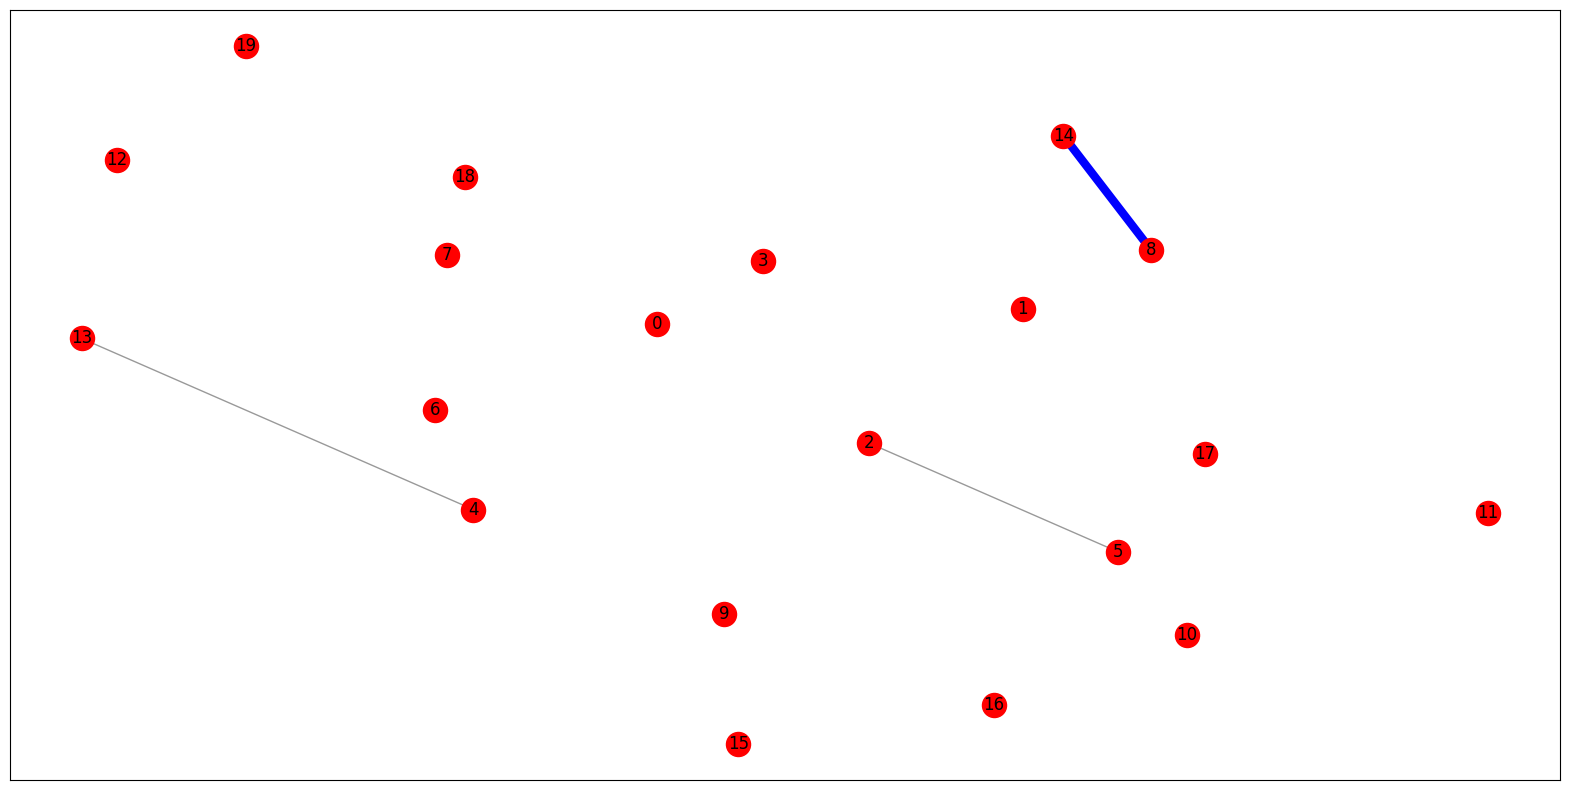
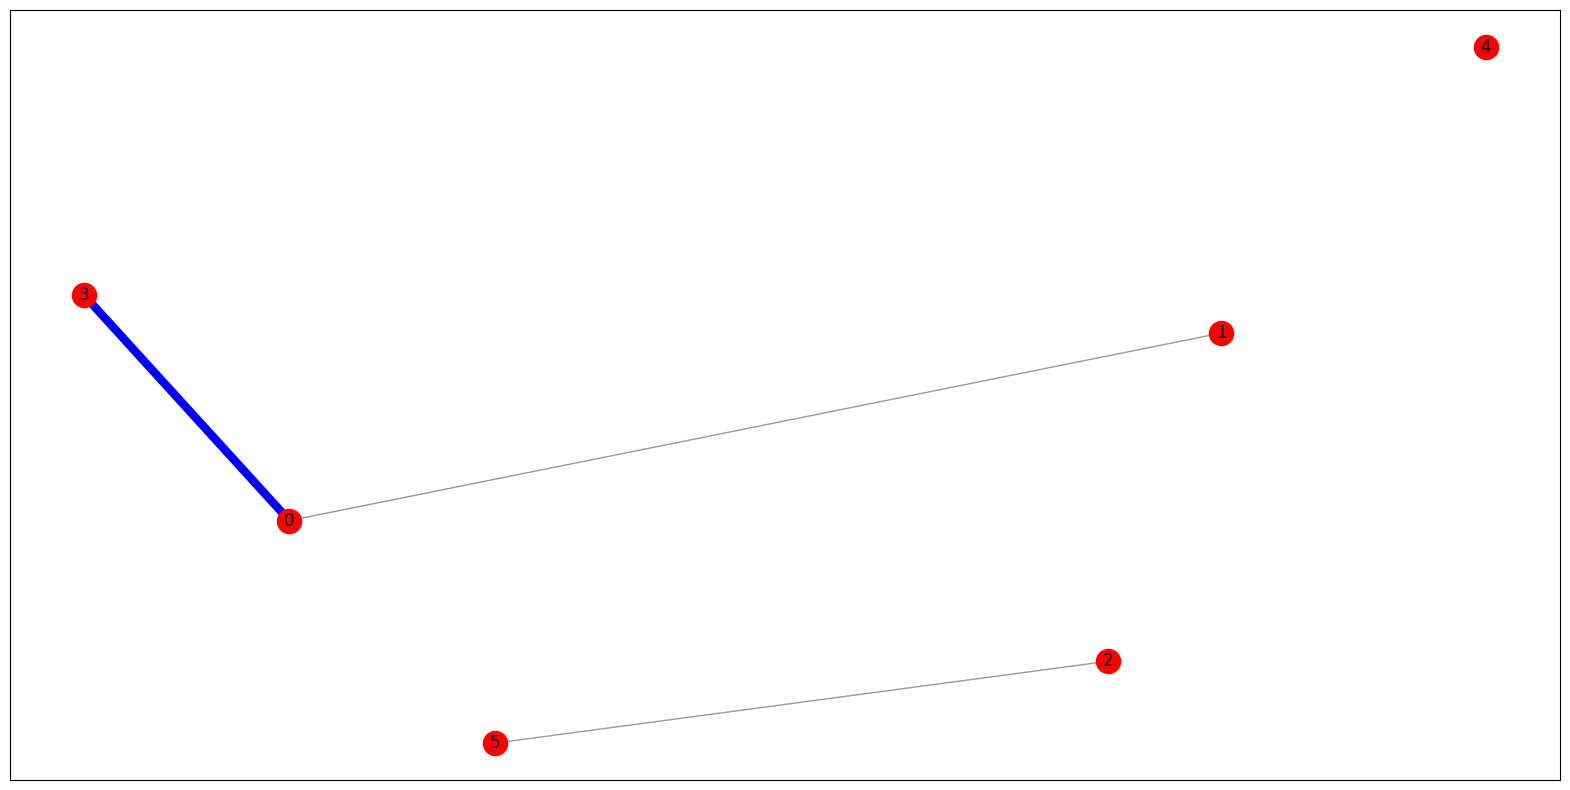
Colormap now properly has 0 at centre

diff --git a/framework.py b/framework.py
@@ -1,4 +1,5 @@
 import matplotlib.pyplot as plt
+from matplotlib.colors import Normalize
 import networkx as nx
 import numpy as np
 import numpy.linalg as ln
@@ -47,7 +48,7 @@ def delaunay_to_edges(d):
 # creates a random framework with n points and minimum distance r, starting at (0,0).
 # Edges are from the delaunay triangulation
 def create_random_fw(n, r, seed=None):
-    positions = pd.poisson_disc_sample(n, r, seed)
+    positions = pd.poisson_disc_sample(n, r=r, seed=seed)
     nodes = list(range(len(positions)))
     edges = delaunay_to_edges(Delaunay(positions))
     fw = create_framework(nodes, edges, positions)
@@ -56,7 +57,7 @@ def create_random_fw(n, r, seed=None):
 # creates a random framework and then removes edges until 
 # (still in 2D)
 def create_reduced_fw(n, r, seed=None):
-    fw = create_random_fw(n, r, seed)
+    fw = create_random_fw(n, r=r, seed=seed)
     while len(fw.edges) > 2*len(fw.nodes):
             index = np.random.choice(len(fw.edges))
             edge = list(fw.edges)[index]
@@ -166,6 +167,22 @@ def is_inf_rigid(fw, d):
     # print("d=",d," - ",ln.matrix_rank(R) ,  d*size_V - (((d+1) * d) / 2))
     return ln.matrix_rank(R) == d*size_V - (((d+1) * d) / 2)
 
+
+
+# Code from https://stackoverflow.com/questions/20144529/shifted-colorbar-matplotlib/20146989#20146989
+# for making the midpoint of the colormap 0
+class MidpointNormalize(Normalize):
+    def __init__(self, vmin=None, vmax=None, midpoint=None, clip=False):
+        self.midpoint = midpoint
+        Normalize.__init__(self, vmin, vmax, clip)
+
+    def __call__(self, value, clip=None):
+        # I'm ignoring masked values and all kinds of edge cases to make a
+        # simple example...
+        x, y = [self.vmin, self.midpoint, self.vmax], [0, 0.5, 1]
+        return np.ma.masked_array(np.interp(value, x, y))
+
+
 # draws the framework 'fw' with stresses resulting from force 'f'
 def draw_stresses(fw, f):
     R = create_rigidity_matrix(fw, 2)
@@ -188,15 +205,16 @@ def draw_stresses(fw, f):
             # put the force into a dictionary
             applied_forces[i//2] = (f[i], f[i+1])
        
-    # nx.draw_networkx_labels(fw, pos)
-    # nx.draw_networkx_edges(fw, pos, color=s, cmap=plt.cm.plasma, width=5)
+    cmap = plt.cm.coolwarm
+    norm = MidpointNormalize(midpoint=0)
     nx.draw(fw, pos, edge_color=s,
-            width=4, edge_cmap=plt.cm.coolwarm, with_labels=True)
+            width=4, edge_cmap=cmap, norm=norm, with_labels=True)
+    # STRESSED NODES IN GREEN
     nx.draw_networkx_nodes(fw, pos, nodelist=applied_forces.keys(), node_color='green')
     nx.draw_networkx_edge_labels(fw, pos, e_labels)
-    # nx.draw_networkx_nodes(fw, pos, node_color='r')
+    # drawing the applied forces as black bars
     for key in applied_forces.keys():
         x, y = fw.nodes[key]["position"]
-        plt.plot([x,x+applied_forces[key][0]], [y,y+applied_forces[key][1]], color='k', linestyle='-', linewidth=4)
+        plt.plot([x,x+applied_forces[key][0]], [y,y+applied_forces[key][1]], color='k', linestyle='-', linewidth=2)
 
     plt.show()

diff --git a/testing.py b/testing.py
@@ -18,8 +18,6 @@ fig_39_pos = [(0,0), (3,0), (3,2), (0,2)]
 fig_39_fw = create_framework(fig_39_nodes, fig_39_edges, fig_39_pos)
 R39 = create_rigidity_matrix(fig_39_fw, 2)
 
-
-
 rigid_3d = create_framework([0,1,2,3,4],
             [(0,1), (0,3), (1,2), (1,3), (2,3), (0,2), (0,4), (1,4), (2,4)],
             [(2,3, 0), (4,4, 5), (5,2, 0), (1,1, 0), (10,10,10)])
@@ -34,7 +32,6 @@ ok_(is_inf_rigid(fw_1d, 1))
 # ok_(not is_inf_rigid(deformable_fw, 2))
 # draw_framework(deformable_fw)
 
-
 reduced_fw = create_reduced_fw(50,0.2, 1)
 
 # p = pebble_game(reduced_fw, 2, 3)
@@ -42,14 +39,15 @@ reduced_fw = create_reduced_fw(50,0.2, 1)
 # draw_framework(reduced_fw)
 # draw_comps(reduced_fw, p[1])
 # experimenting with reducing a framework gradually and tracking the number of components
-rand_fw = create_random_fw(20,0.2, 1)
-num_comps = constructive_pebble_game(rand_fw, 2, 3)
-
-fig = plt.figure(figsize=(20,10))
+rand_fw = create_random_fw(10,0.1, 1) 
+print(len(rand_fw.nodes))
+draw_framework(rand_fw)
+# num_comps = constructive_pebble_game(rand_fw, 2, 3) 
+# fig = plt.figure(figsize=(20,10))
 # plotting the number of comps(reversed to show removal)
-plt.plot(num_comps)
-# fig.savefig("comp_numbers.pdf")
-plt.show()
+# plt.plot(num_comps)
+# # fig.savefig("comp_numbers.pdf")
+# plt.show()
 # draw_framework(rand_fw, "before.pdf")
 # num_comps = []
 # counter = 0
@@ -78,24 +76,24 @@ R = create_rigidity_matrix(deformable_fw, 2)
 # f is a d*n length vector
 R = create_rigidity_matrix(rand_fw, 2)
 f = [0] * len(R[0])
-# f[82] = -0.1
-# f[83] = 0.1
-# f[114] = -0.1
-# f[115] = 0.1
-# f = np.array(f)
-# print(R)
-# print(f)
+f[2] = -0.1
+f[3] = 0.1
+f[14] = -0.1
+f[15] = 0.1
+f = np.array(f)
+print(R)
+print(f)
 
-# print(R.dot(f))
-# draw_stresses(rand_fw, f)
+print(R.dot(f))
+draw_stresses(rand_fw, f)
 
 # draw_framework(fw_2d)
 sq_nodes = [0,1,2,3]
 sq_edges = [(0,1), (0,3), (1,2), (2,3), (0,2)]
 sq_pos = [(0,0), (4,0), (4,4), (0,4)]
 sq_fw = create_framework(sq_nodes, sq_edges, sq_pos)
-print(sq_fw.edges)
-print(sorted(sq_fw.edges))
+# print(sq_fw.edges)
+# print(sorted(sq_fw.edges))
 f = [0] * len(sq_nodes) * 2
 f[0] = 1
 f[1] = 1

diff --git a/poisson_disc_sample.py b/poisson_disc_sample.py
@@ -16,10 +16,12 @@ def grid_indices(point, a, step):
 
 # get the neighbouring points of a point in the grid
 # also sneakily contains a check that the input point is actually in the domain
+# NOTE: This defines a circle, so some of the grid isn't used
 def find_neighbours(point, grid, a, step):
     i, j = grid_indices(point, a, step)
-    if i < 0 or i > 2*a or j < 0 or j > 2*a:
+    if (i-a)**2 + (j-a)**2 > (a)**2:
         return None, False
+
     # values of neighbouring cells gives the indices of their points
     rv = []
     for s in range(-5, 6):
@@ -27,8 +29,23 @@ def find_neighbours(point, grid, a, step):
             if i+s >= 0 and i+s < 2*a and j+t >= 0 and j+t < 2*a:
                 rv.append(grid[i+s, j+t])
 
-
     return [index for index in rv if index >= 0], True
+
+
+# get the neighbouring points of a point in the grid
+# also sneakily contains a check that the input point is actually in the domain
+# def find_neighbours(point, grid, a, step):
+#     i, j = grid_indices(point, a, step)
+#     if i < 0 or i > 2*a or j < 0 or j > 2*a:
+#         return None, False
+#     # values of neighbouring cells gives the indices of their points
+#     rv = []
+#     for s in range(-5, 6):
+#         for t in range(-5, 6):
+#             if i+s >= 0 and i+s < 2*a and j+t >= 0 and j+t < 2*a:
+#                 rv.append(grid[i+s, j+t])
+
+#     return [index for index in rv if index >= 0], True
 
 # generate a set of random points using the Poisson disc sampling 
 # algorithm from Nick Bostock's blog
